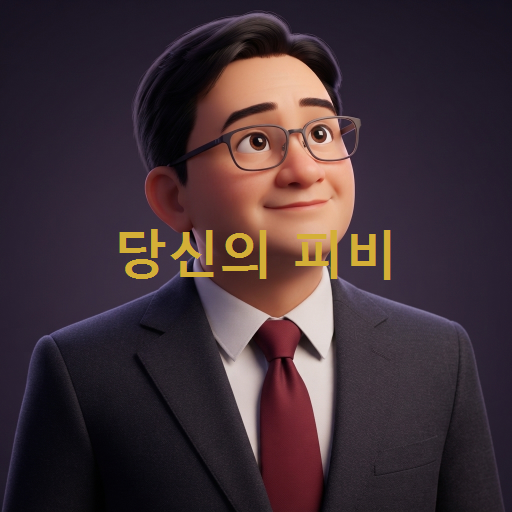
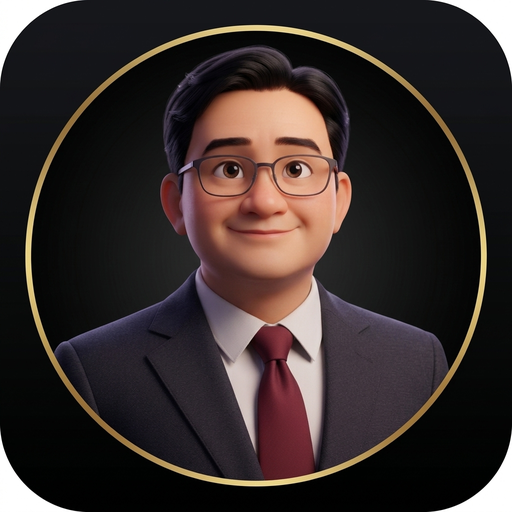
feat: 스마트폰 홈 화면 추가(PWA) 1초 설치 배너 및 홍선생 공식 앱 아이콘 탑재

diff --git a/src/components/InstallPrompt.tsx b/src/components/InstallPrompt.tsx
@@ -1,0 +1,200 @@
+"use client";
+
+import React, { useState, useEffect } from "react";
+import Image from "next/image";
+
+interface BeforeInstallPromptEvent extends Event {
+  prompt: () => Promise<void>;
+  userChoice: Promise<{ outcome: "accepted" | "dismissed"; platform: string }>;
+}
+
+export default function InstallPrompt() {
+  const [deferredPrompt, setDeferredPrompt] = useState<BeforeInstallPromptEvent | null>(null);
+  const [isVisible, setIsVisible] = useState(false);
+  const [isIOS, setIsIOS] = useState(false);
+  const [showIOSModal, setShowIOSModal] = useState(false);
+
+  useEffect(() => {
+    // 1. 이미 PWA로 실행 중인지 확인 (standalone 모드)
+    const isStandalone = window.matchMedia("(display-mode: standalone)").matches ||
+      (window.navigator as unknown as { standalone?: boolean }).standalone === true;
+    if (isStandalone) return;
+
+    // 2. 7일 이내에 닫기를 눌렀는지 확인
+    const dismissedTime = localStorage.getItem("yourpb_pwa_dismissed");
+    if (dismissedTime) {
+      const diffDays = (Date.now() - parseInt(dismissedTime, 10)) / (1000 * 60 * 60 * 24);
+      if (diffDays < 7) return;
+    }
+
+    // 3. 기기 환경 감지 (iOS 여부)
+    const userAgent = window.navigator.userAgent.toLowerCase();
+    const isIosDevice = /iphone|ipad|ipod/.test(userAgent);
+    setIsIOS(isIosDevice);
+
+    // 4. 안드로이드/크롬 PWA 설치 신호 감지
+    const handleBeforeInstallPrompt = (e: Event) => {
+      e.preventDefault();
+      setDeferredPrompt(e as BeforeInstallPromptEvent);
+    };
+
+    window.addEventListener("beforeinstallprompt", handleBeforeInstallPrompt);
+
+    // 5. 사용자가 웹사이트를 8초 이상 둘러본 뒤 자연스럽게 슬라이드업 노출
+    const timer = setTimeout(() => {
+      setIsVisible(true);
+    }, 8000);
+
+    return () => {
+      window.removeEventListener("beforeinstallprompt", handleBeforeInstallPrompt);
+      clearTimeout(timer);
+    };
+  }, []);
+
+  const handleInstallClick = async () => {
+    if (isIOS) {
+      // 아이폰 유저는 직관적인 그림 안내 모달 띄우기
+      setShowIOSModal(true);
+    } else if (deferredPrompt) {
+      // 안드로이드/갤럭시 유저는 브라우저 원클릭 설치 팝업 트리거
+      try {
+        await deferredPrompt.prompt();
+        const choice = await deferredPrompt.userChoice;
+        if (choice.outcome === "accepted") {
+          setIsVisible(false);
+        }
+        setDeferredPrompt(null);
+      } catch (err) {
+        console.error("설치 팝업 실행 오류:", err);
+      }
+    } else {
+      // 기타 브라우저는 간편 안내
+      setShowIOSModal(true);
+    }
+  };
+
+  const handleDismiss = () => {
+    setIsVisible(false);
+    localStorage.setItem("yourpb_pwa_dismissed", Date.now().toString());
+  };
+
+  if (!isVisible) return null;
+
+  return (
+    <>
+      {/* 하단 스마트 슬라이드인 배너 */}
+      <aside 
+        aria-label="앱 설치 안내"
+        className="fixed bottom-4 left-4 right-4 z-50 mx-auto max-w-md animate-in fade-in slide-in-from-bottom-5 duration-500"
+      >
+        <div className="relative flex items-center justify-between gap-3 rounded-2xl border border-amber-500/40 bg-neutral-950/95 p-3.5 shadow-2xl backdrop-blur-xl">
+          {/* 좌측 앱 아이콘 & 설명 */}
+          <div className="flex items-center gap-3">
+            <div className="relative h-12 w-12 shrink-0 overflow-hidden rounded-xl border border-amber-500/50 shadow-md">
+              <Image
+                src="/icon-192x192.png"
+                alt="당신의 피비 앱 아이콘"
+                width={48}
+                height={48}
+                className="h-full w-full object-cover"
+              />
+            </div>
+            <div>
+              <div className="flex items-center gap-1.5">
+                <span className="text-sm font-bold text-white">당신의 피비</span>
+                <span className="rounded bg-amber-500/20 px-1.5 py-0.5 text-[10px] font-semibold text-amber-400">
+                  앱으로 추가
+                </span>
+              </div>
+              <p className="text-xs text-neutral-400">
+                홈 화면에서 매주 최신 비중을 1초 만에 확인!
+              </p>
+            </div>
+          </div>
+
+          {/* 우측 1초 설치 버튼 & 닫기 */}
+          <div className="flex items-center gap-1.5">
+            <button
+              onClick={handleInstallClick}
+              className="rounded-xl bg-gradient-to-r from-amber-500 to-amber-600 px-3.5 py-2 text-xs font-bold text-neutral-950 shadow-lg transition-transform active:scale-95 hover:brightness-110"
+            >
+              1초 설치
+            </button>
+            <button
+              onClick={handleDismiss}
+              aria-label="닫기"
+              className="p-1 text-neutral-400 hover:text-white"
+            >
+              <svg className="h-4 w-4" fill="none" viewBox="0 0 24 24" stroke="currentColor">
+                <path strokeLinecap="round" strokeLinejoin="round" strokeWidth={2} d="M6 18L18 6M6 6l12 12" />
+              </svg>
+            </button>
+          </div>
+        </div>
+      </aside>
+
+      {/* 아이폰(iOS) 5060 고객 전용 초간단 그림 안내 팝업 모달 */}
+      {showIOSModal && (
+        <div 
+          className="fixed inset-0 z-50 flex items-end justify-center bg-black/80 p-4 backdrop-blur-sm sm:items-center"
+          role="dialog"
+          aria-modal="true"
+          aria-labelledby="ios-modal-title"
+        >
+          <div className="w-full max-w-sm rounded-3xl border border-amber-500/40 bg-neutral-900 p-6 text-white shadow-2xl animate-in zoom-in-95 duration-200">
+            <div className="mb-4 flex items-center justify-between">
+              <h3 id="ios-modal-title" className="text-lg font-bold text-amber-400">
+                📲 스마트폰 바탕화면에 추가하기
+              </h3>
+              <button
+                onClick={() => setShowIOSModal(false)}
+                aria-label="안내 팝업 닫기"
+                className="text-neutral-400 hover:text-white"
+              >
+                ✕
+              </button>
+            </div>
+
+            <p className="mb-5 text-sm text-neutral-300 leading-relaxed">
+              사파리(Safari) 브라우저에서 아래 2단계만 누르시면 스마트폰 첫 화면에 홍선생님 앱 아이콘이 생성됩니다:
+            </p>
+
+            <div className="space-y-3.5 rounded-2xl bg-neutral-950/80 p-4 border border-neutral-800 text-sm">
+              <div className="flex items-center gap-3">
+                <span className="flex h-7 w-7 shrink-0 items-center justify-center rounded-full bg-amber-500 font-bold text-neutral-950">
+                  1
+                </span>
+                <span className="leading-snug">
+                  화면 맨 아래 <strong>[공유 버튼 ⎋]</strong> (네모에 위쪽 화살표) 터치
+                </span>
+              </div>
+              <div className="flex items-center gap-3">
+                <span className="flex h-7 w-7 shrink-0 items-center justify-center rounded-full bg-amber-500 font-bold text-neutral-950">
+                  2
+                </span>
+                <span className="leading-snug">
+                  메뉴를 조금 올려 <strong>[홈 화면에 추가 ➕]</strong> 터치
+                </span>
+              </div>
+              <div className="flex items-center gap-3">
+                <span className="flex h-7 w-7 shrink-0 items-center justify-center rounded-full bg-amber-500 font-bold text-neutral-950">
+                  3
+                </span>
+                <span className="leading-snug">
+                  우측 상단 <strong>[추가]</strong> 터치하면 설치 완료!
+                </span>
+              </div>
+            </div>
+
+            <button
+              onClick={() => setShowIOSModal(false)}
+              className="mt-6 w-full rounded-xl bg-amber-500 py-3 text-sm font-bold text-neutral-950 shadow-md hover:bg-amber-400 active:scale-95 transition-all"
+            >
+              확인했습니다
+            </button>
+          </div>
+        </div>
+      )}
+    </>
+  );
+}

diff --git a/src/app/layout.tsx b/src/app/layout.tsx
@@ -5,6 +5,7 @@ import { NuqsAdapter } from "nuqs/adapters/next/app";
 import "sonner/dist/styles.css";
 import GlobalToaster from "@/components/GlobalToaster";
 import ScrollToTopButton from "@/components/ScrollToTopButton";
+import InstallPrompt from "@/components/InstallPrompt";
 import "./globals.css";
 
 const pretendard = localFont({
@@ -15,7 +16,7 @@ const pretendard = localFont({
 });
 
 export const viewport: Viewport = {
-  themeColor: "#000000",
+  themeColor: "#0A0A0A",
   width: "device-width",
   initialScale: 1,
 };
@@ -25,9 +26,14 @@ export const metadata: Metadata = {
   title: "당신의 피비 - ETF 포트폴리오 자산관리 파트너",
   description: "각종 지표, ETF, 주식 분석을 한 곳에서 확인하세요",
   manifest: "/manifest.json",
+  icons: {
+    icon: "/favicon.ico",
+    shortcut: "/favicon.png",
+    apple: "/apple-touch-icon.png",
+  },
   appleWebApp: {
     capable: true,
-    statusBarStyle: "default",
+    statusBarStyle: "black-translucent",
     title: "당신의 피비",
   },
   formatDetection: {
@@ -75,6 +81,7 @@ export default function RootLayout({ children }: { children: React.ReactNode }) 
         </NuqsAdapter>
         <GlobalToaster />
         <ScrollToTopButton />
+        <InstallPrompt />
       </body>
     </html>
   );
